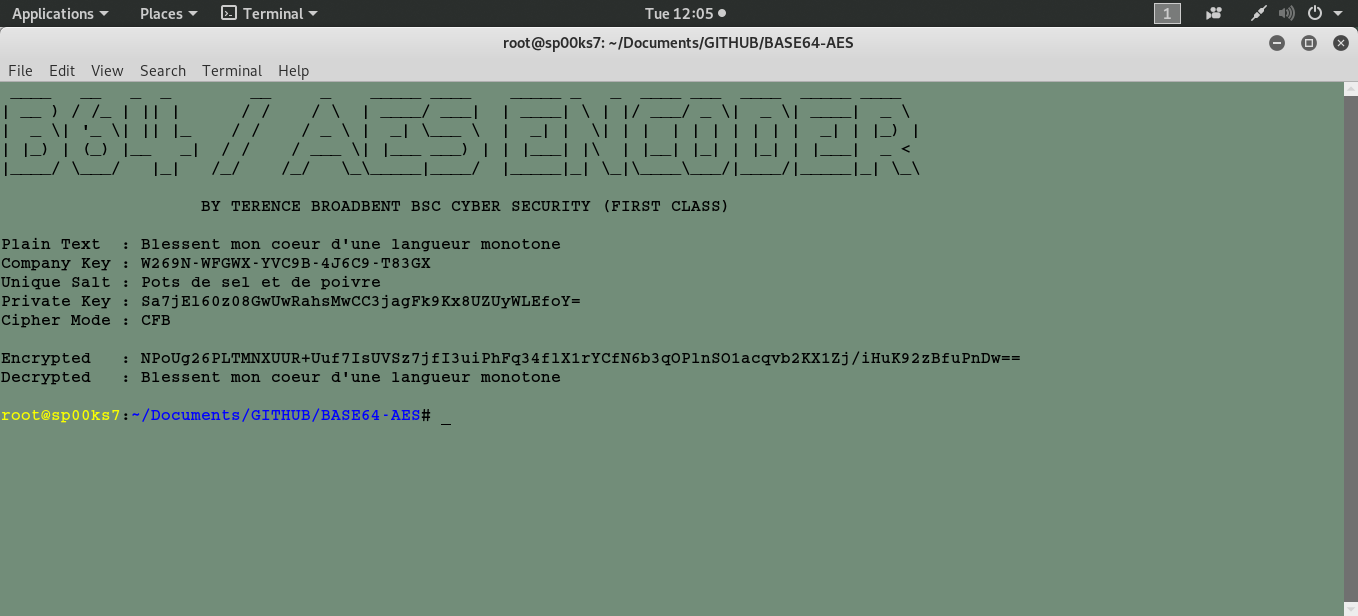
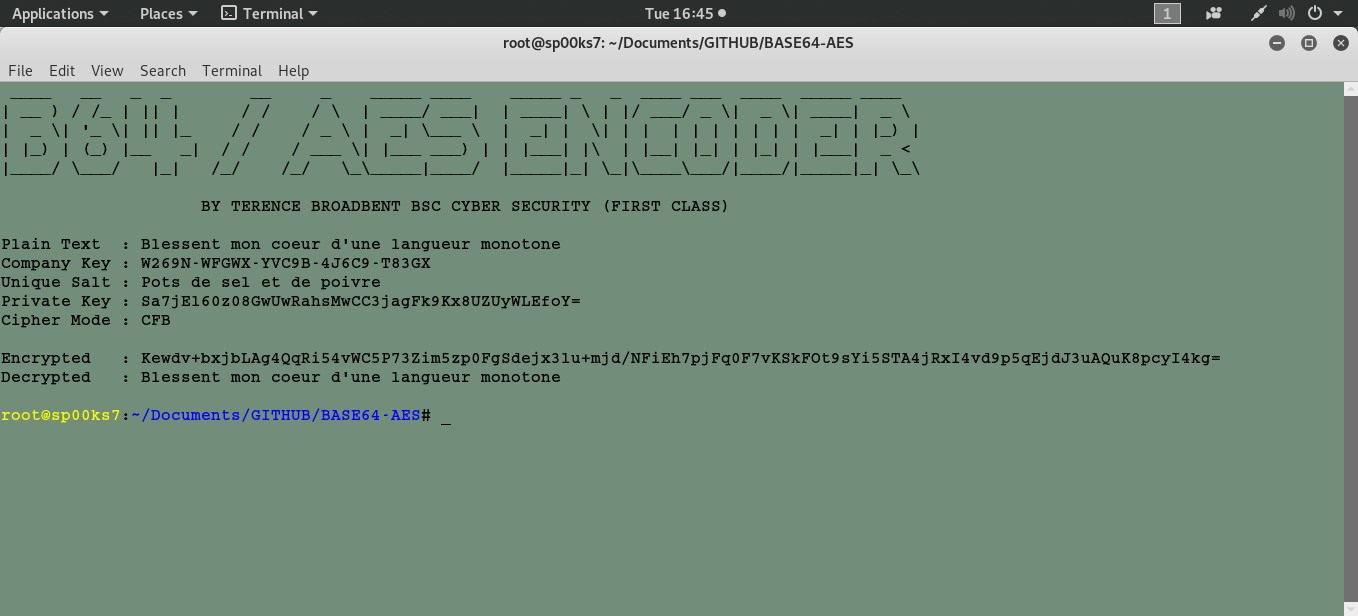
changes

Changed region(s): [[0.0928, 0.5552, 0.8969, 0.586], [0.4948, 0.0, 0.5258, 0.0308]]

diff --git a/base64-aes_cfb.py b/base64-aes_cfb.py
@@ -1,0 +1,103 @@
+#!/usr/bin/python
+# coding:UTF-8
+
+# -------------------------------------------------------------------------------------
+#  A SIMPLE PYTHON SCRIPT FILE FOR CREATING AND READING BASE64/AES ENCRYPTED STRINGS
+#               BY TERENCE BROADBENT BSc CYBER SECURITY (FIRST CLASS)
+# -------------------------------------------------------------------------------------
+
+# ------------------------------------------------------------------------------------- 
+# AUTHOR  : Terence Broadbent                                                    
+# CONTRACT: GitHub
+# Version : 1.0                                                                
+# Details : Load required imports.
+# Modified: N/A
+# -------------------------------------------------------------------------------------
+
+import os
+import base64
+import hashlib
+from Crypto import Random
+from Crypto.Cipher import AES
+from Crypto.Protocol.KDF import PBKDF2
+
+# -------------------------------------------------------------------------------------
+# AUTHOR  : Terence Broadbent                                                    
+# CONTRACT: GitHub                                                               
+# Version : 2.0                                                                
+# Details : Display universal header.
+# Modified: N/A                                                               
+# -------------------------------------------------------------------------------------
+
+os.system("clear")
+print " ____   __   _  _        __     _    _____ ____    _____ _   _  ____ ___  ____  _____ ____   " 
+print "| __ ) / /_ | || |      / /    / \  | ____/ ___|  | ____| \ | |/ ___/ _ \|  _ \| ____|  _ \  "
+print "|  _ \| '_ \| || |_    / /    / _ \ |  _| \___ \  |  _| |  \| | |  | | | | | | |  _| | |_) | "
+print "| |_) | (_) |__   _|  / /    / ___ \| |___ ___) | | |___| |\  | |__| |_| | |_| | |___|  _ <  "
+print "|____/ \___/   |_|   /_/    /_/   \_\_____|____/  |_____|_| \_|\____\___/|____/|_____|_| \_\ "
+print "                                                                                             " 
+print "                    BY TERENCE BROADBENT BSC CYBER SECURITY (FIRST CLASS)                  \n"
+
+# ------------------------------------------------------------------------------------- 
+# AUTHOR  : Terence Broadbent                                                    
+# CONTRACT: GitHub
+# Version : 1.0                                                                
+# Details : Initialise program variables.
+# Modified: N/A
+# -------------------------------------------------------------------------------------
+ 
+plainText  = "Blessent mon coeur d'une langueur monotone"
+companyKey = 'W269N-WFGWX-YVC9B-4J6C9-T83GX'
+blockSize  = 32 				# 16 to 256 in multiples of 16 in length
+padding    = lambda s: s + (blockSize - len(s) % blockSize) * chr(blockSize - len(s) % blockSize)
+unpad      = lambda s: s[:-ord(s[len(s) - 1:])]
+
+# ------------------------------------------------------------------------------------- 
+# AUTHOR  : Terence Broadbent                                                    
+# CONTRACT: GitHub
+# Version : 1.0                                                                
+# Details : Create the functions called from main.
+# Modified: N/A
+# -------------------------------------------------------------------------------------
+
+def Key(companyKey):
+   salt = 'Pots de sel et de poivre'
+   key = PBKDF2(companyKey, salt, 64, 1000)
+   return key[:32]
+
+def encrypt(plainText, companyKey):
+   privateKey = Key(companyKey)
+   text = padding(plainText)
+   iv = Random.new().read(AES.block_size)
+   cipher = AES.new(privateKey, AES.MODE_CBC, iv)
+   return base64.b64encode(iv + cipher.encrypt(text))
+
+def decrypt(encryption, companyKey):
+   privateKey = Key(companyKey)
+   decrypted = base64.b64decode(encryption)
+   iv = decrypted[:16]
+   cipher = AES.new(privateKey, AES.MODE_CBC, iv)
+   return unpad(cipher.decrypt(decrypted[16:]))
+
+# ------------------------------------------------------------------------------------- 
+# AUTHOR  : Terence Broadbent                                                    
+# CONTRACT: GitHub
+# Version : 1.0                                                                
+# Details : MAIN - Display program variables, and encrypt/decrypt plainText.
+# Modified: N/A
+# -------------------------------------------------------------------------------------
+
+print "Plain Text  : " + plainText
+print "Company Key : " + companyKey
+print "Unique Salt : Pots de sel et de poivre"
+print "Private Key : " + base64.b64encode(Key(companyKey))
+print "Cipher Mode : CFB\n"			# Modes = ECB, CBC, CFB, PCBC, OFB, CTR
+
+encrypted = encrypt(plainText, companyKey)
+print "Encrypted   : " + encrypted
+ 
+decrypted = decrypt(encrypted, companyKey)
+print "Decrypted   : " + bytes.decode(decrypted) + "\n"
+
+
+

diff --git a/base64-aes_ecb.py b/base64-aes_ecb.py
@@ -1,0 +1,101 @@
+#!/usr/bin/python
+# coding:UTF-8
+
+# -------------------------------------------------------------------------------------
+#  A SIMPLE PYTHON SCRIPT FILE FOR CREATING AND READING BASE64/AES ENCRYPTED STRINGS
+#               BY TERENCE BROADBENT BSc CYBER SECURITY (FIRST CLASS)
+# -------------------------------------------------------------------------------------
+
+# ------------------------------------------------------------------------------------- 
+# AUTHOR  : Terence Broadbent                                                    
+# CONTRACT: GitHub
+# Version : 1.0                                                                
+# Details : Load required imports.
+# Modified: N/A
+# -------------------------------------------------------------------------------------
+
+import os
+import base64
+import hashlib
+from Crypto import Random
+from Crypto.Cipher import AES
+from Crypto.Protocol.KDF import PBKDF2
+
+# -------------------------------------------------------------------------------------
+# AUTHOR  : Terence Broadbent                                                    
+# CONTRACT: GitHub                                                               
+# Version : 2.0                                                                
+# Details : Display universal header.
+# Modified: N/A                                                               
+# -------------------------------------------------------------------------------------
+
+os.system("clear")
+print " ____   __   _  _        __     _    _____ ____    _____ _   _  ____ ___  ____  _____ ____   " 
+print "| __ ) / /_ | || |      / /    / \  | ____/ ___|  | ____| \ | |/ ___/ _ \|  _ \| ____|  _ \  "
+print "|  _ \| '_ \| || |_    / /    / _ \ |  _| \___ \  |  _| |  \| | |  | | | | | | |  _| | |_) | "
+print "| |_) | (_) |__   _|  / /    / ___ \| |___ ___) | | |___| |\  | |__| |_| | |_| | |___|  _ <  "
+print "|____/ \___/   |_|   /_/    /_/   \_\_____|____/  |_____|_| \_|\____\___/|____/|_____|_| \_\ "
+print "                                                                                             " 
+print "                    BY TERENCE BROADBENT BSC CYBER SECURITY (FIRST CLASS)                  \n"
+
+# ------------------------------------------------------------------------------------- 
+# AUTHOR  : Terence Broadbent                                                    
+# CONTRACT: GitHub
+# Version : 1.0                                                                
+# Details : Initialise program variables.
+# Modified: N/A
+# -------------------------------------------------------------------------------------
+ 
+plainText  = "Blessent mon coeur d'une langueur monotone"
+companyKey = 'W269N-WFGWX-YVC9B-4J6C9-T83GX'
+blockSize  = 32 				# 16 to 256 in multiples of 16 in length
+padding    = lambda s: s + (blockSize - len(s) % blockSize) * chr(blockSize - len(s) % blockSize)
+unpad      = lambda s: s[:-ord(s[len(s) - 1:])]
+
+# ------------------------------------------------------------------------------------- 
+# AUTHOR  : Terence Broadbent                                                    
+# CONTRACT: GitHub
+# Version : 1.0                                                                
+# Details : Create the functions called from main.
+# Modified: N/A
+# -------------------------------------------------------------------------------------
+
+def Key(companyKey):
+   salt = 'Pots de sel et de poivre'
+   key = PBKDF2(companyKey, salt, 64, 1000)
+   return key[:32]
+
+def encrypt(plainText, companyKey):
+   privateKey = Key(companyKey)
+   text = padding(plainText)
+   cipher = AES.new(privateKey, AES.MODE_ECB)
+   return base64.b64encode(cipher.encrypt(text))
+
+def decrypt(encryption, companyKey):
+   privateKey = Key(companyKey)
+   decrypted = base64.b64decode(encryption)
+   cipher = AES.new(privateKey, AES.MODE_ECB)
+   return unpad(cipher.decrypt(decrypted))
+
+# ------------------------------------------------------------------------------------- 
+# AUTHOR  : Terence Broadbent                                                    
+# CONTRACT: GitHub
+# Version : 1.0                                                                
+# Details : MAIN - Display program variables, and encrypt/decrypt plainText.
+# Modified: N/A
+# -------------------------------------------------------------------------------------
+
+print "Plain Text  : " + plainText
+print "Company Key : " + companyKey
+print "Unique Salt : Pots de sel et de poivre"
+print "Private Key : " + base64.b64encode(Key(companyKey))
+print "Cipher Mode : ECB\n"			# Modes = CFB, CBC, CFB, PCBC, OFB, CTR
+
+encrypted = encrypt(plainText, companyKey)
+print "Encrypted   : " + encrypted
+ 
+decrypted = decrypt(encrypted, companyKey)
+print "Decrypted   : " + bytes.decode(decrypted) + "\n"
+
+
+

diff --git a/README.md b/README.md
@@ -1,56 +1,20 @@
 # BASE64/AES ENCODER
 ### A SIMPLE PYTHON SCRIPT FILE TO CREATE AND READ BASE64/AES ENCODED TEXT STRINGS VIA A CORPORATE 'PASSWORD BASED KEY DERIVATION FUNCTION' (PBKDF2).
+
 Usage: python base64_aes.py
 
-| LANGUAGE | FILENAME      | MD5 HASH                         |
-|------    |------         | -------                          |
-| python   | base64_aes.py | 1511ac1356ffc7753872039eb307fece |
+| LANGUAGE | FILENAME          | MD5 HASH                         | CONFIDENTIALITY MODE |
+|------    |------             | -------                          | -----                |
+| python   | base64-aes_cfb.py | 7d46a682002ffd598c40d5b667af8361 | CFB                  |
+| python   | base64-aes_ecb.py | 96529abfc1d84196c5103594cab8cc1a | ECB                  |
 
-- [x] Confidentiality mode used: CFB - see https://csrc.nist.gov/Projects/Block-Cipher-Techniques/BCM
+- [x] Confidentiallity mode, see https://csrc.nist.gov/Projects/Block-Cipher-Techniques/BCM
 
-### Cipher Feedback Mode and PBKDF2
+### Cipher Feedback Mode
+__The Cipher Feedback (CFB) mode__ is a confidentiality mode that features the feedback of successive ciphertext segments into the input blocks of the forward cipher to generate output blocks that are exclusive-ORed with the plaintext to produce the ciphertext, and vice versa. The CFB mode requires an IV as the initial input block. The IV need not be secret, but it must be unpredictable.
 
-__Cipher Feedback (CFB)__ is an IV-based encryption scheme, the mode is secure as a probabilistic encryption scheme, achieving indistinguishability from random bits, assuming a random IV. However, confidentiality is not achieved if the IV is predictable, nor if it is made by a nonce enciphered under the same key used by the scheme, as the standard incorrectly suggests to do. Ciphertexts are malleable. No CCA-security. Encryption inefficient from being inherently serial. Scheme depends on a parameter s, 1 ≤ s ≤ n, typically s = 1 or s = 8. Inefficient for needing one blockcipher call to process only s bits. The mode achieves an interesting  “self-synchronization” property; insertion or deletion of any number of s-bit characters into the ciphertext only temporarily disrupts correct decryption.
-
+### PBKDF2
 In cryptography, __PBKDF1 and PBKDF2__ (Password-Based Key Derivation Function 2) are key derivation functions with a sliding computational cost, used to reduce vulnerabilities to brute force attacks. PBKDF2 is part of RSA Laboratories' Public-Key Cryptography Standards (PKCS) series, specifically PKCS #5 v2.0, also published as Internet Engineering Task Force's RFC 2898. It supersedes PBKDF1, which could only produce derived keys up to 160 bits long. RFC 8018 (PKCS #5 v2.1), published in 2017, recommends PBKDF2 for password hashing.
 
 ## CONSOLE DISPLAY
-![Screenshot](picture1.png)	
-
-Other modes available:-
-
-> ECB: A blockcipher, the mode enciphers messages that are a multiple of n bits by separately enciphering each n-bit piece.
-> The security properties are weak, the method leaking equality of blocks across both block positions and time. 
-> Of considerable legacy value, and of value as a building block for other schemes, but the mode does not achieve any generally desirable security goal in its own right and must be used with considerable caution; ECB should not be regarded as a “general-purpose” confidentiality mode.
-
-> CBC: An IV-based encryption scheme, the mode is secure as a probabilistic encryption scheme, achieving indistinguishability from random bits, assuming a random IV. 
-> Confidentiality is not achieved if the IV is merely a nonce, nor if it is a nonce enciphered under the same key used by the scheme, as the standard incorrectly suggests to do. 
-> Ciphertexts are highly malleable. 
-> No chosen ciphertext attack (CCA) security. 
-> Confidentiality is forfeit in the presence of a correct-padding oracle for many padding methods.
-> Encryption inefficient from being inherently serial.
-> Widely used, the mode’s privacy-only security properties result in frequent misuse.
-> Can be used as a building block for CBC-MAC algorithms. I can identify no important advantages over CTR mode.
-
-> OFB: An IV-based encryption scheme, the mode is secure as a probabilistic encryption scheme, achieving indistinguishability from random bits, assuming a random IV. 
-> Confidentiality is not achieved if the IV is a nonce, although a fixed sequence of IVs (eg, a counter) does work fine. 
-> Ciphertexts are highly malleable.
-> No CCA security.
-> Encryption and decryption inefficient from being inherently serial.
-> Natively encrypts strings of any bit length (no padding needed). 
-> I can identify no important advantages over CTR mode.
-
-> CTR: An IV-based encryption scheme, the mode achieves indistinguishability from random bits assuming a nonce IV.
-> As a secure nonce-based scheme, the mode can also be used as a probabilistic encryption scheme, with a random IV.
-> Complete failure of privacy if a nonce gets reused on encryption or decryption.
-> The parallelizability of the mode often makes it faster, in some settings much faster, than other confidentiality modes.
-> An important building block for authenticated-encryption schemes.
-> Overall, usually the best and most modern way to achieve privacy-only encryption.
-
-> XTS: An IV-based encryption scheme, the mode works by applying a tweakable blockcipher (secure as a strong-PRP) to each n-bit chunk.
-> For messages with lengths not divisible by n, the last two blocks are treated specially. 
-> The only allowed use of the mode is for encrypting data on a block-structured storage device. 
-> The narrow width of the underlying PRP and the poor treatment of fractional final blocks are problems. 
-> More efficient but less desirable than a (wide-block) PRP-secure blockcipher would be.
-
-More information is available here - https://nvlpubs.nist.gov/nistpubs/Legacy/SP/nistspecialpublication800-38a.pdf
+![Screenshot](picture1.png)
